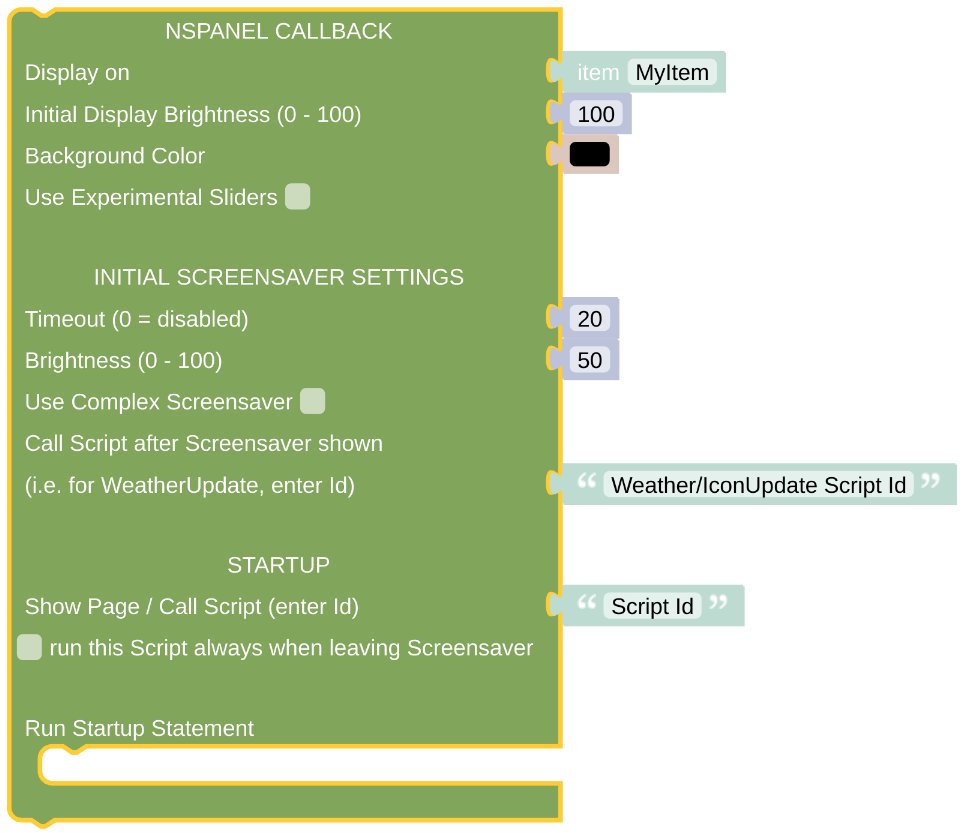
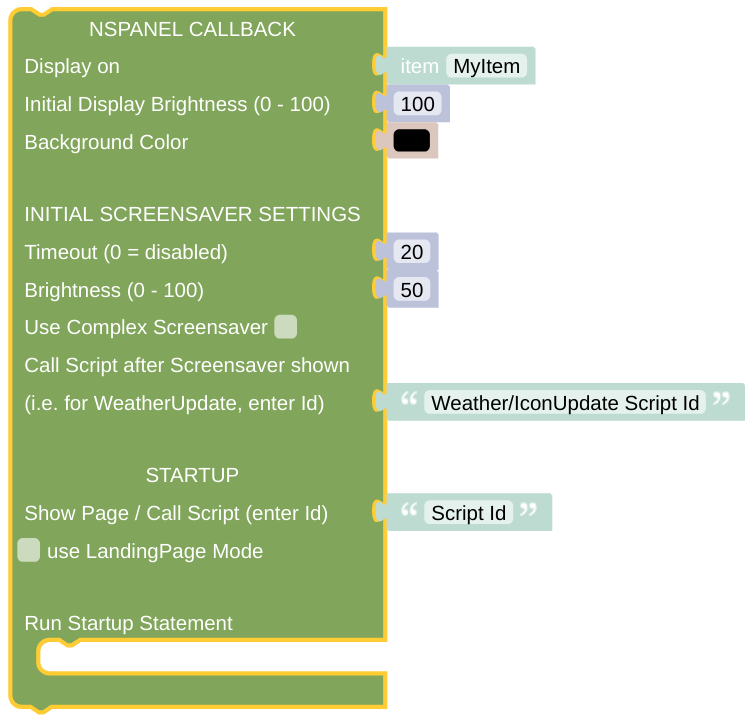
updated Documentation

Changed region(s): [[0.0, 0.0, 1.0, 1.0]]

diff --git a/docs/blockLibrary_nspanel_callback_API.md b/docs/blockLibrary_nspanel_callback_API.md
@@ -1,0 +1,51 @@
+# API to change Settings of the Callback (including Options of Complex Callback)
+
+[<img src="img/openhab_scripts_nspanel1_postUpdate.png" align="right" width="300">](img/openhab_scripts_nspanel1_postUpdate.png)
+
+The Callback is made to forward the received MQTT message from the Item to the last active script (Card / Page). Beside, it will actively check if the received MQTT is some result of the calling card and give this information to the script as well. Some special options, which might be triggered by directly changing the state of the *NSPanel Item*, can modify this behavior a little bit.
+
+## refresh
+
+The current card just gets refreshed. Maybe something in the openHAB environment changed and you like to display this change on the current card? Just set the state of the *NSPanel Item* to 'refresh'.
+
+## refreshTimer
+
+The 'refreshTimer' option is mainly used internally to auto-refresh some page. You can find the related configuration option on every card. The difference to a plain 'refresh' is, that the refresh is only done if the screen saver is not shown.
+
+## loadPage
+
+If you set the state of the *NSPanel Item* to 'loadPage?yourScriptID' (and replace yourScriptID with a script you created, which displays a Card), you can load this Card. The difference compared to start the script directly is, that the callback will remember this Card and might display a screen saver over it, go back to this Card when the screen saver is finished or do a refresh of this Card without any further information. The same can be done [in blockly with the loadpage helper](blockLibrary_nspanel_helpers_loadPage.md).
+
+## loadScreensaver
+
+Set the *NSPanel Item* to 'loadScreensaver' and it directly activates the screensaver. The same can be done [in blockly with the loadpage helper](blockLibrary_nspanel_helpers_loadScreensaver.md).
+
+## newTimeout
+
+Provide the new screensaver timeout as a parameter to the state change of the *NSPanel Item*, like 'newTimeout?30' to set the timeout to 30 seconds.
+
+## newBrightness
+
+You can also modify the brightness settings of the display on the fly, maybe to dim the panel down by night. Just provide the screensaver brightness as the first parameter, the normal brightness as the second parameter. For instance by setting the *NSPanel Item* at 'newBrightness?35?80'. The same can be done [in blockly with the setBrightness helper](blockLibrary_nspanel_helpers_setBrightness.md).
+
+## complexScreenSaver
+
+You can decide, if you like to change to the more complex screensaver or change back to the normal one. Supply 'complexScreenSaver?TRUE' or 'complexScreenSaver?FALSE' to the *NSPanel Item*, however you like this. Be aware that this will only take effect onc the screensaver is shown again. If you like this change to be immediate, than [reload the Screensaver](blockLibrary_nspanel_helpers_loadScreensaver.md) manually.
+
+## screensaverScriptName
+
+Set some new script for configuration of the screensaver (script will run after the screensaver is shown). Set the *NSPanel Item* to 'screensaverScriptName?ScriptID' and from this time on the scipt with the Id (not the label) ScriptID will get called.
+
+## startupScriptName
+
+Set some new script to run when the panel ist activated. Set the *NSPanel Item* to 'startupScriptName?ScriptID' and the next time your panel will start this startup Script is called.
+
+## touchScriptName, swipeLeftScriptName, swipeRightScriptName, swipeUpScriptName, swipeDownScriptName
+
+Usually you will end on the page where the screensaver got activated when you leave the screensaver again. You might have choosen some landing page feature by activating the "use LandingPage Mode" option for your startup script.
+
+Here you can change your scripts and also this behavior. Just set your *NSPanel Item* to '...ScriptName?ScriptID?landingPageMode' and the new script will be set  . At the same time the Landing Page Mode can be changed.
+
+Ok, some examples: Send "swipeLeftScriptName?nspanel_cardMedia?TRUE" to your *NSPanel Item* and whenever you swipe left on your screensaver, the script "nspanel_cardMedia" is called. As a LandingPage, it is always called when you swipe left. Or send "touchScriptName?nspanel_cardGrid?FALSE" to your *NSPanel Item* and when you touch the screensaver, the script "nspanel_cardGrid" might be called - if there is no known previous page.
+
+All of this can be more comfortably done in blockly with the [setScreensaverScripts](blockLibrary_nspanel_helpers_setScreenSaverScriptsComplex.md) or with the [setScreensaverScriptsLandingPage](blockLibrary_nspanel_helpers_setScreenSaverScriptsComplex_LandingPage.md).

diff --git a/docs/blockLibrary_nspanel_callback_callback_complex.md b/docs/blockLibrary_nspanel_callback_callback_complex.md
@@ -1,12 +1,12 @@
-# Callback
+# Complex Callback
 
-The Callback is the central part which will react on every message from the display and forward the information to the right sub-routine. It should normally be triggered by some rule, have a look at the [Installation information](../README.md) or the [related rule details](openhab_rules_callback.md).
+The Callback is the central part which will react on every message from the display and forward the information to the right sub-routine. It should normally be triggered by some rule, have a look at the [Installation information](../README.md) or the [related rule details](openhab_rules_callback.md). The Complex Callback gives you access to all the options which are hidden in the [much simpler standard version](blockLibrary_nspanel_callback_callback.md) - behind the scenes the same script is used for both versions.
 
 Also have a look the [API for direct updates](blockLibrary_nspanel_callback_API.md) of the callback settings.
 
 ## Configuration
 
-[<img src="img/blockLibrary_nspanel_callback_callback.png" align="right" width="300">](img/blockLibrary_nspanel_callback_callback.png)
+[<img title="" src="img/blockLibrary_nspanel_callback_callback_complex.png" alt="" align="right" width="300">](img/blockLibrary_nspanel_callback_callback_complex.png)
 
 - The *NSPanel Item* which is used to control the panel with MQTT.
 - The Brightness for the activated display (for instance after some touch event) as numerical value between 0 and 100.
@@ -22,8 +22,12 @@ The *Callback* will configure the screensaver after receiving the display startu
 
 You might also like to display some initial card (page) after starting.
 
-- Add the ID of some script configuring your *Card*. You might decide if this *Card* is shown every time you are leaving your screensaver (like a landing page for naviation) or if you like to reach the last *Card* shown instead.
+- Add the ID of some script running once displaying some Welcome- *Card*. 
 - Run any statement you like. This statement will only be run once during initial startup.
+
+Once the Screensaver is shown, you surely like also to leave it. Now you can add some fine-grained configuration which actions should happen. Be aware that the swipe actions are sometimes hard to trigger - you might always end up with some touch event instead if the desired swipe event.
+
+- Add the ID of some script running when touched or swiped. You can activate the checkbox to use the script as some Landing Page.
 
 ## Context information
 

diff --git a/README.md b/README.md
@@ -66,7 +66,7 @@ Now add some *Channel* and enter the receiving and sending MQTT topics for you N
 
 [<img src="docs/img/overview.png" align="right" width="300">](docs/img/overview.png)
 
-Before starting the configuration of these libraries you need to get a little bit familiar to the overall concept of this add-on. In the image you can see the display itself (hardware), the *MQTT-Broker* and the *Lovelace UI Item* as you configured them already. Now some *Rule* has to be added, which triggers the [*Callback*](docs/blockLibrary_nspanel_callback_callback.md) on any change of the Item state (any received relevant MQTT message or any direct change).
+Before starting the configuration of these libraries you need to get a little bit familiar to the overall concept of this add-on. In the image you can see the display itself (hardware), the *MQTT-Broker* and the *Lovelace UI Item* as you configured them already. Now some *Rule* has to be added, which triggers the [*Callback*](docs/blockLibrary_nspanel_callback_callback.md) on any update of the Item state (any received relevant MQTT message or any direct change).
 
 This *Callback* will forward your message to the last or any new *Card* you requested by parsing this message. These *Cards* are just *Scripts* you created, which can have some forward and backwards navigation items on top. These items will contain references to other *Scripts* for navigation between your *Cards*. This way you can configure any navigation you like between all of your *Cards*.
 

diff --git a/docs/README.md b/docs/README.md
@@ -21,6 +21,8 @@
 - [setTimeout](blockLibrary_nspanel_helpers_setTimeout.md)
 - [setBrightness](blockLibrary_nspanel_helpers_setBrightness.md)
 - [setScreensaverScripts](blockLibrary_nspanel_helpers_setScreenSaverScripts.md)
+- [setScreensaverScripts(Complex)](blockLibrary_nspanel_helpers_setScreenSaverScriptsComplex.md)
+- [setScreensaverScripts(Complex LandingPage Mode)](blockLibrary_nspanel_helpers_setScreenSaverScriptsComplex_LandingPage.md)
 - [Example returnValue](blockLibrary_nspanel_helpers_returnValue.md)
 - [Example returnMode](blockLibrary_nspanel_helpers_returnMode.md)
 - [Example Getter Statement](blockLibrary_nspanel_helpers_exampleGetter.md)
@@ -46,6 +48,7 @@
 [<img src="img/blockLibrary_nspanel_callback_timeUpdate.png" align="right" width="300">](img/blockLibrary_nspanel_callback_timeUpdate.png)
 
 - [Callback](blockLibrary_nspanel_callback_callback.md)
+- [Complex Callback](blockLibrary_nspanel_callback_callback_complex.md)
 - [Time Update](blockLibrary_nspanel_callback_timeUpdate.md)<br clear="right"/>
 
 ### Screensaver/Notification Library
@@ -96,7 +99,7 @@
 
 ## Remote Control Options
 
-See [Callback](blockLibrary_nspanel_callback_callback.md) for further information.
+- [API for direct Callback updates](blockLibrary_nspanel_callback_API.md)
 
 ---
 

diff --git a/docs/blockLibrary_nspanel_helpers_setScreenSaverScriptsComplex.md b/docs/blockLibrary_nspanel_helpers_setScreenSaverScriptsComplex.md
@@ -1,0 +1,17 @@
+# set Screensaver Scripts - Complex Configuration
+
+[<img src="img/blockLibrary_nspanel_helpers_setScreenSaverScriptsComplex.png" align="right" width="300">](img/blockLibrary_nspanel_helpers_setScreenSaverScriptsComplex.png)
+
+**Important:** This *helper* will do nothing if called directly without any context. It requires some information about the *NSPanel Item* to work with. If you don't use this helper in any script called by your CallBack (like some Card), you need to [set the context yourself](blockLibrary_nspanel_helpers_startScriptWithContext.md).
+
+## Configuration
+
+Choose the script you wan't to replace in your callback configuration. Be aware that this script might only be used if there is no other last known page to display - if you like to force the usage of this script on the related action you need to use the [Complex LandingPage configuration](blockLibrary_nspanel_helpers_setScreenSaverScriptsComplex_LandingPage.md) instead.
+
+All this is done via indirect calls trough your [CallBack API](blockLibrary_nspanel_callback_API.md) - your CallBack has to be configured and working.<br clear="right"/>
+
+---
+
+[Openhab Blockly Nspanel - Library Documentation](README.md)
+
+---

diff --git a/docs/blockLibrary_nspanel_helpers_setScreenSaverScriptsComplex_LandingPage.md b/docs/blockLibrary_nspanel_helpers_setScreenSaverScriptsComplex_LandingPage.md
@@ -1,0 +1,17 @@
+# set Screensaver Scripts - Complex Configuration for Landingpage
+
+[<img title="" src="img/blockLibrary_nspanel_helpers_setScreenSaverScriptsComplexLandingpage.png" alt="" align="right" width="300">](img/blockLibrary_nspanel_helpers_setScreenSaverScriptsComplexLandingpage.png)
+
+**Important:** This *helper* will do nothing if called directly without any context. It requires some information about the *NSPanel Item* to work with. If you don't use this helper in any script called by your CallBack (like some Card), you need to [set the context yourself](blockLibrary_nspanel_helpers_startScriptWithContext.md).
+
+## Configuration
+
+Choose the script you wan't to replace in your callback configuration. Be aware that this script is used as a Landing Page script. After you triggered the respective action, the script will be started and any previously displayed page will be forgotten.
+
+All this is done via indirect calls trough your [CallBack API](blockLibrary_nspanel_callback_API.md) - your CallBack has to be configured and working.<br clear="right"/>
+
+---
+
+[Openhab Blockly Nspanel - Library Documentation](README.md)
+
+---

diff --git a/docs/blockLibrary_nspanel_helpers_setScreenSaverScripts.md b/docs/blockLibrary_nspanel_helpers_setScreenSaverScripts.md
@@ -10,7 +10,7 @@ Using this helper you always have to device if you like to use the normal or the
 
 Additionally you can re-configure the scripts, which are called for entering or leaving the ScreenSaver. If you set any script for leaving the ScreenSaver, this script becomes some 'landing page'. If you supply some empty string for this script, the option of the landing script gets removed and you will always end on the last called page when leaving the Screensaver.
 
-All this is done via indirect calls trough your CallBack ([complexScreenSaver](blockLibrary_nspanel_callback_callback.md#complexscreensaver), [enterScriptName](blockLibrary_nspanel_callback_callback.md#enterscriptname), [leaveScriptName](blockLibrary_nspanel_callback_callback.md#leavescriptname)). Your CallBack has to be configured and working.<br clear="right"/>
+All this is done via indirect calls trough your [CallBack API](blockLibrary_nspanel_callback_API.md) - your CallBack has to be configured and working.<br clear="right"/>
 
 ---
 
